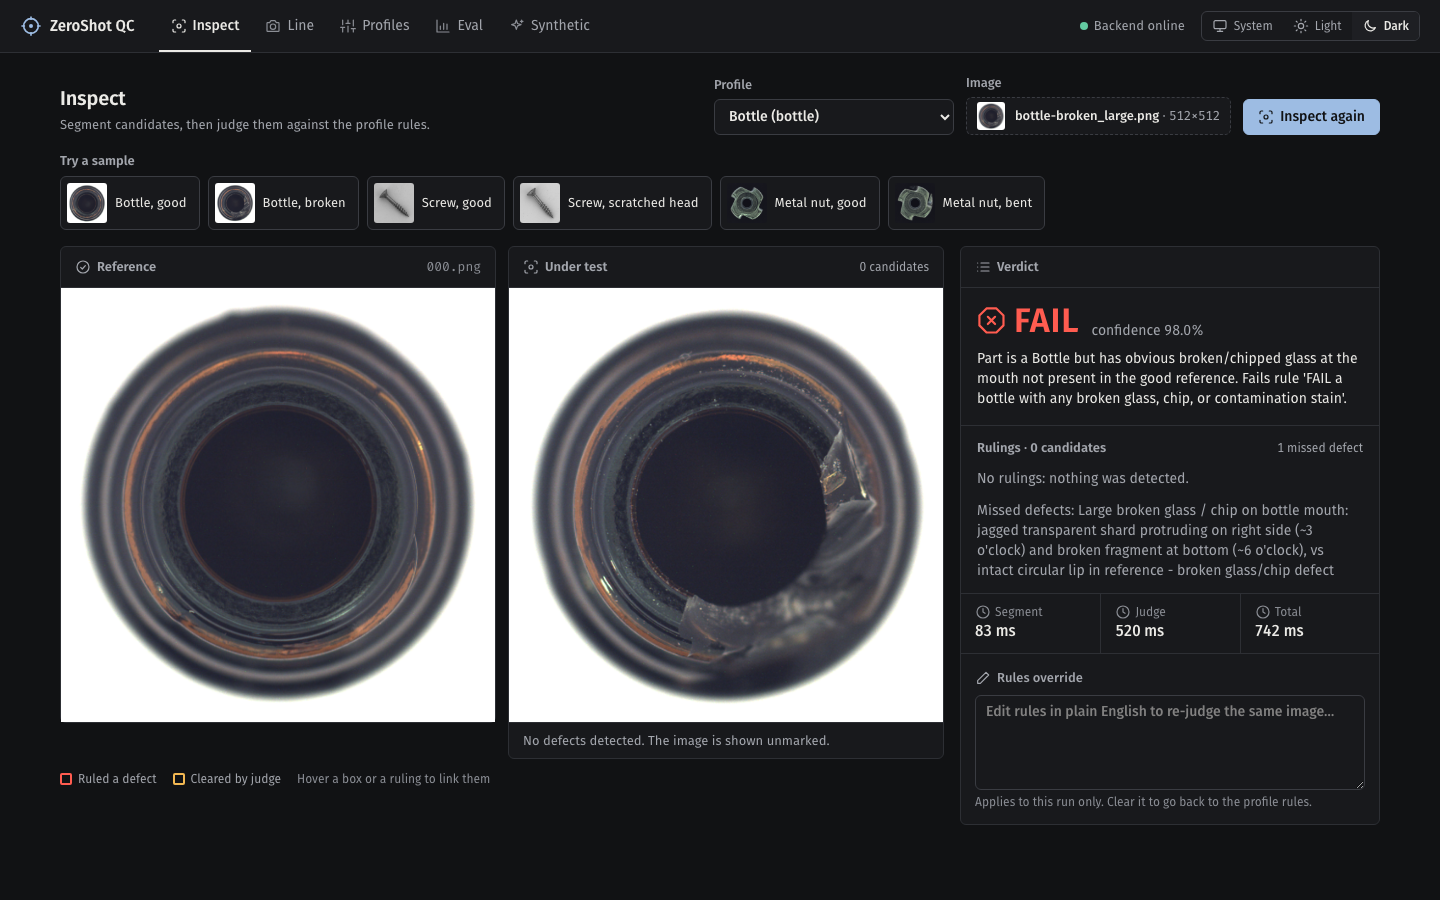
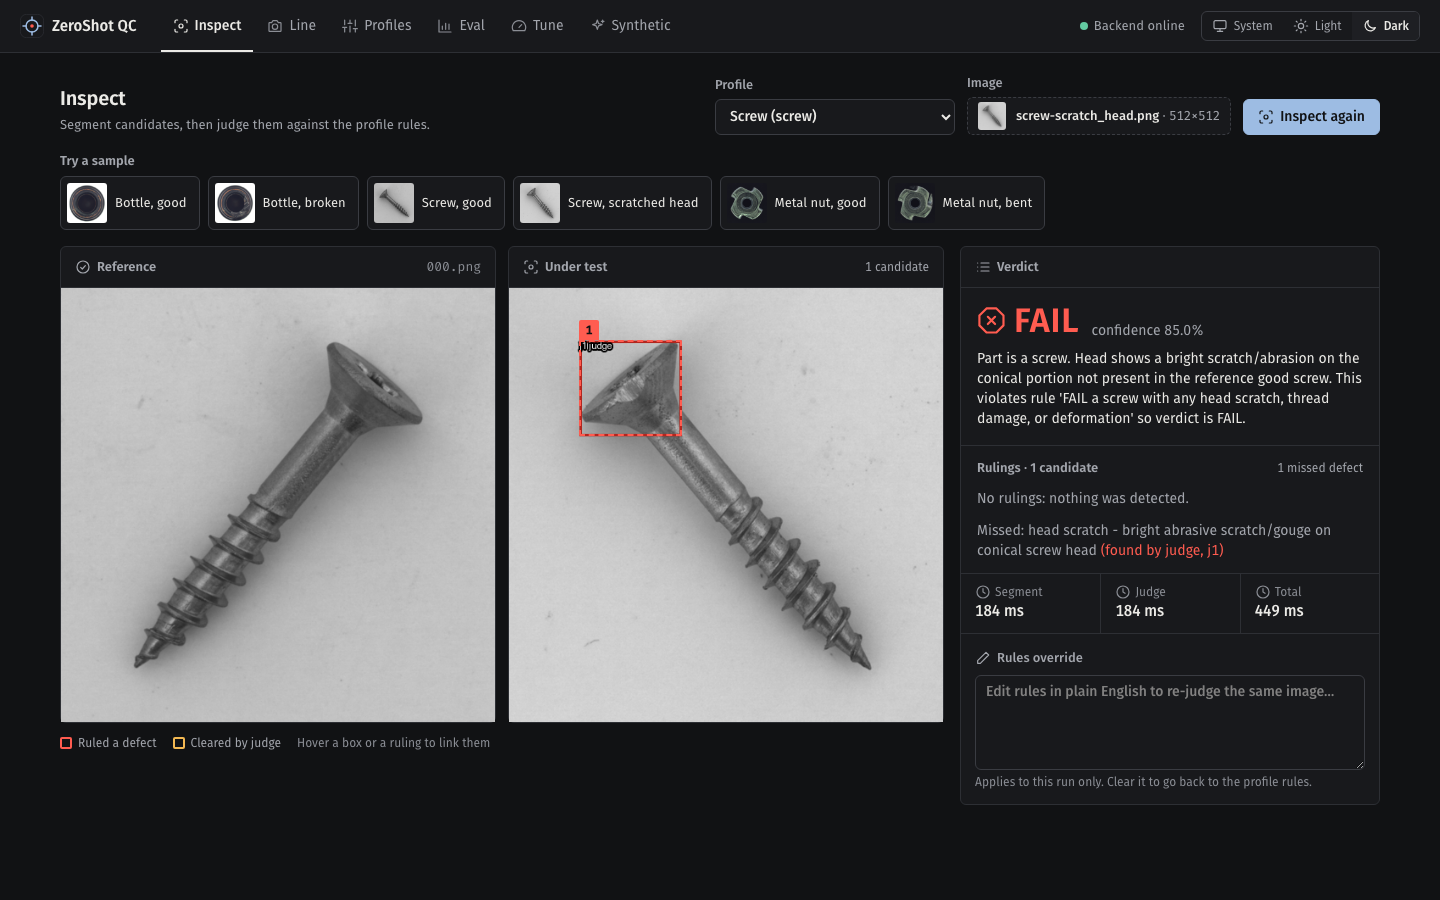
docs(readme): update model roles and add inspect and tune screenshots

diff --git a/README.md b/README.md
@@ -110,9 +110,9 @@ Records are in `backend/demo/runs/*/summary.json`; notes and failure patterns ar
 
 | Model | Job | Called from |
 |---|---|---|
-| SAM 3.1 | Segments candidate defect regions from the profile's text prompts | [`backend/app/adapters/sam.py`](backend/app/adapters/sam.py) |
-| Muse Spark | Judges the part against the rules and the reference image; also drafts a profile from an SOP | [`backend/app/adapters/muse_spark.py`](backend/app/adapters/muse_spark.py) |
-| Muse Image | Generates synthetic defect images for test data | [`backend/app/adapters/muse_image.py`](backend/app/adapters/muse_image.py) |
+| SAM 3.1 | Finds the part (so the app can zoom in on it) and segments candidate defect regions from the profile's text prompts | [`backend/app/adapters/sam.py`](backend/app/adapters/sam.py) |
+| Muse Spark | Judges the part against the rules and the reference image and boxes the defects it finds; rewrites the rules in tuning; also drafts a profile from an SOP | [`backend/app/adapters/muse_spark.py`](backend/app/adapters/muse_spark.py) |
+| Muse Image | Generates synthetic defect images for test data and for the tune set | [`backend/app/adapters/muse_image.py`](backend/app/adapters/muse_image.py) |
 
 ## How it works
 
@@ -135,13 +135,17 @@ The Tune page replays offline rule tuning: the judge's rules are rewritten from 
 
 ## Screens
 
-Inspect, after clicking "Bottle, broken": the judge fails the part through a missed defect even though SAM proposed nothing.
+Inspect, after clicking "Screw, scratched head": the judge fails the part and boxes the scratch on the head.
 
-![Inspect page showing a FAIL verdict on a broken bottle](docs/assets/screens/inspect.png)
+![Inspect page showing a FAIL verdict and a judge box on a scratched screw head](docs/assets/screens/inspect.png)
 
-Eval: the four runs, F1 ablation, confusion matrix and failure examples. Try the "False fail" and "Missed" filters.
+Eval: the five runs, F1 ablation, confusion matrix and failure examples. Try the "False fail" and "Missed" filters.
 
 ![Eval page showing the F1 ablation, confusion matrix and failures](docs/assets/screens/eval.png)
+
+Tune: the rules before and after tuning on metal nut, with the held-out F1 (0.824 to 0.878).
+
+![Tune page showing the rule rewrite and held-out F1 for metal nut](docs/assets/screens/tune.png)
 
 ## Use it from code
 
